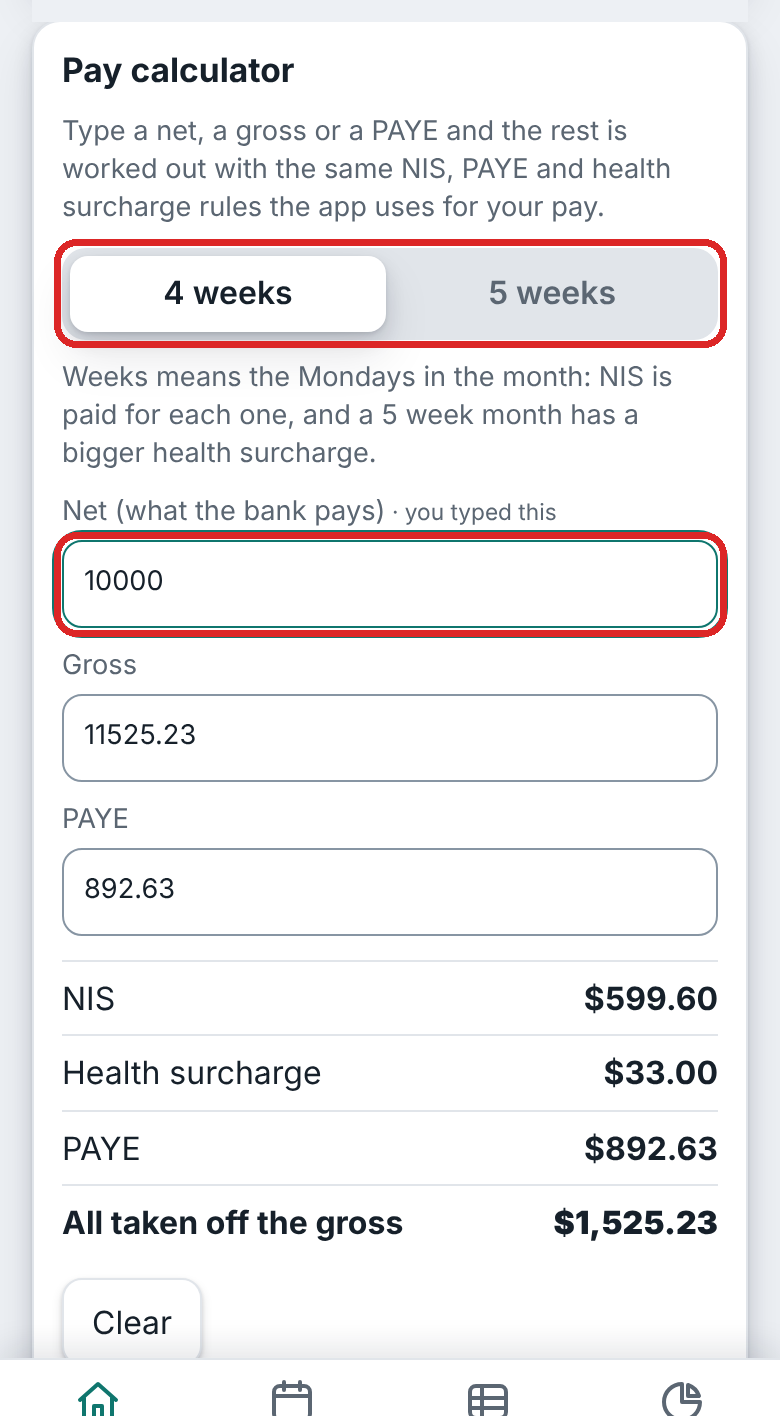
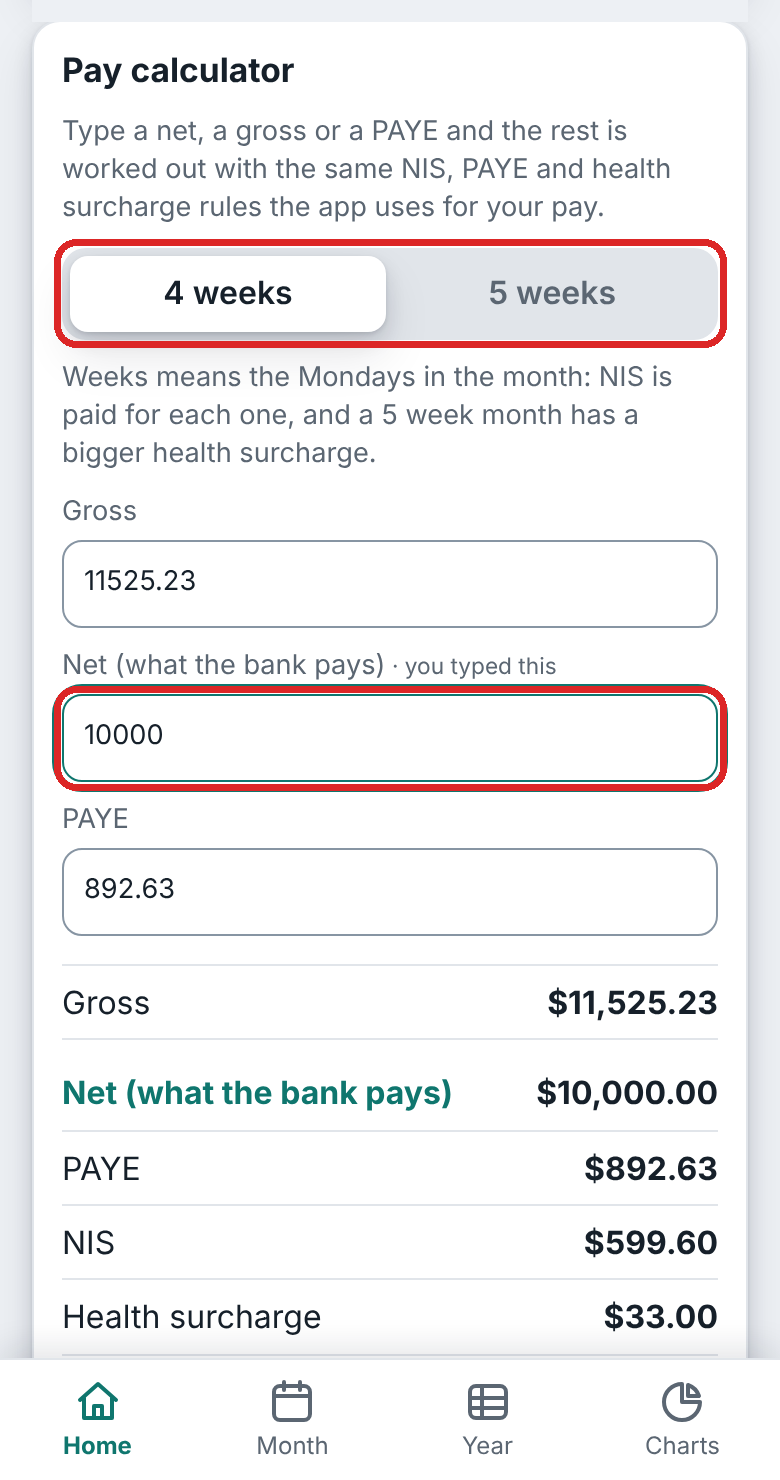
Pay calculator: boxes in the order gross, net, PAYE; a summary that always lists gross, net, PAYE, NIS and health surcharge and changes as you type; tests, guide text and picture
Claude-Session: https://claude.ai/code/session_015B217MJCLoYGM2HCZFLF5v

Changed region(s): [[0.0, 0.0311, 0.9538, 1.0], [0.9538, 0.9011, 1.0, 0.9633]]

diff --git a/tests/calculator.test.tsx b/tests/calculator.test.tsx
@@ -1,0 +1,55 @@
+// @vitest-environment jsdom
+import { afterEach, describe, expect, it } from "vitest";
+import { act, cleanup, fireEvent, render, screen, within } from "@testing-library/react";
+import { PayCalculator } from "../src/components/PayCalculator";
+import { monthTax } from "../src/engine";
+import { demoTax } from "./support";
+
+afterEach(cleanup);
+
+const draw = (five = false) => render(<PayCalculator rules={demoTax} fiveByDefault={five} />);
+const summary = () => within(screen.getByLabelText("Summary")).getAllByRole("listitem").map((li) => li.textContent);
+
+describe("pay calculator", () => {
+  it("shows the boxes as gross, net, PAYE and an empty summary to begin with", () => {
+    draw();
+    const labels = ["Gross", "Net (what the bank pays)", "PAYE"].map((l) => screen.getByLabelText(l));
+    expect(labels.length).toBe(3);
+    expect(summary()[0]).toBe("Gross–");
+    expect(summary().length).toBe(6);
+  });
+
+  it("a net fills in the gross, PAYE and the summary, using the app's own formulas", () => {
+    draw();
+    act(() => { fireEvent.change(screen.getByLabelText("Net (what the bank pays)"), { target: { value: "10000" } }); });
+    const gross = Number((screen.getByLabelText("Gross") as HTMLInputElement).value);
+    const t = monthTax(gross, 4, demoTax);
+    expect(Math.abs(t.net - 10000)).toBeLessThan(0.02);
+    expect(Number((screen.getByLabelText("PAYE") as HTMLInputElement).value)).toBeCloseTo(t.paye, 1);
+    expect(summary()[3]).toContain("NIS");
+    expect(summary()[1]).toContain("$10,000.00");
+  });
+
+  it("the 5 week switch changes the answer", () => {
+    draw();
+    act(() => { fireEvent.change(screen.getByLabelText("Net (what the bank pays)"), { target: { value: "10000" } }); });
+    const four = Number((screen.getByLabelText("Gross") as HTMLInputElement).value);
+    act(() => { fireEvent.click(screen.getByRole("button", { name: "5 weeks" })); });
+    expect(Number((screen.getByLabelText("Gross") as HTMLInputElement).value)).toBeGreaterThan(four);
+  });
+
+  it("a gross fills in the net, and Clear empties it all", () => {
+    draw();
+    act(() => { fireEvent.change(screen.getByLabelText("Gross"), { target: { value: "5000" } }); });
+    expect(Number((screen.getByLabelText("Net (what the bank pays)") as HTMLInputElement).value)).toBeCloseTo(monthTax(5000, 4, demoTax).net, 1);
+    act(() => { fireEvent.click(screen.getByRole("button", { name: "Clear" })); });
+    expect((screen.getByLabelText("Gross") as HTMLInputElement).value).toBe("");
+    expect(summary()[0]).toBe("Gross–");
+  });
+
+  it("says so when no gross gives the figure", () => {
+    draw();
+    act(() => { fireEvent.change(screen.getByLabelText("Net (what the bank pays)"), { target: { value: "-5" } }); });
+    expect(screen.getByRole("alert").textContent).toContain("No gross gives exactly that net");
+  });
+});

diff --git a/src/components/PayCalculator.tsx b/src/components/PayCalculator.tsx
@@ -5,8 +5,8 @@ import { money } from "../format";
 const cents = (n: number) => String(Math.round(n * 100) / 100);
 
 const BOXES: Array<{ key: Known; label: string }> = [
-  { key: "net", label: "Net (what the bank pays)" },
   { key: "gross", label: "Gross" },
+  { key: "net", label: "Net (what the bank pays)" },
   { key: "paye", label: "PAYE" },
 ];
 
@@ -41,14 +41,18 @@ export function PayCalculator({ rules, fiveByDefault }: { rules: TaxRules; fiveB
             onChange={(e) => { setSource(key); setText(e.target.value); }} />
         </label>
       ))}
-      {solved && (
-        <ul className="calc-lines" aria-label="Breakdown">
-          <li><span>NIS</span><strong>{money(solved.tax.nis)}</strong></li>
-          <li><span>Health surcharge</span><strong>{money(solved.tax.surcharge)}</strong></li>
-          <li><span>PAYE</span><strong>{money(solved.tax.paye)}</strong></li>
-          <li className="total"><span>All taken off the gross</span><strong>{money(solved.tax.nis + solved.tax.surcharge + solved.tax.paye)}</strong></li>
-        </ul>
-      )}
+      <ul className="calc-lines" aria-label="Summary">
+        {([
+          ["Gross", solved?.tax.gross, "gross"],
+          ["Net (what the bank pays)", solved?.tax.net, "net"],
+          ["PAYE", solved?.tax.paye, "paye"],
+          ["NIS", solved?.tax.nis, null],
+          ["Health surcharge", solved?.tax.surcharge, null],
+        ] as const).map(([name, v, key]) => (
+          <li key={name} className={key !== null && key === source && typed ? "typed" : ""}><span>{name}</span><strong>{v === undefined ? "–" : money(v)}</strong></li>
+        ))}
+        <li className="total"><span>All taken off the gross</span><strong>{solved ? money(solved.tax.nis + solved.tax.surcharge + solved.tax.paye) : "–"}</strong></li>
+      </ul>
       {solved?.zeroPaye && <p className="notice" role="status">No PAYE is paid up to a gross of {money(solved.tax.gross)} in a {mondays} week month.</p>}
       {solved && solved.others.length > 0 && (
         <p className="notice" role="status">The same {label.toLowerCase()} can also be reached with a gross of {solved.others.map(money).join(" or ")}, because the NIS and surcharge step up at that point. The lowest gross is shown.</p>

diff --git a/src/styles.css b/src/styles.css
@@ -1143,3 +1143,6 @@ html.hide-money .viewer.money-doc canvas { filter: blur(10px); }
 .pay-calc .calc-lines li.total { border-bottom: 0; font-weight: 700; }
 .pay-calc button:not(.on) { margin-top: 10px; }
 .pay-calc .segmented button { margin-top: 0; }
+.pay-calc .calc-lines li.typed span { font-weight: 700; color: var(--accent); }
+.pay-calc .calc-lines li.total { margin-top: 2px; }
+.pay-calc .calc-lines { margin-top: 14px; }

diff --git a/guide/build_guide.py b/guide/build_guide.py
@@ -197,7 +197,7 @@ s.append(Spacer(1, 3))
 s.append(steps([("<b>The payroll pop-up</b> looks like this. <b>OK, send it now</b> opens the download sheet for that month. <b>Nothing to send</b> stops the reminder for the month, and <b>Later</b> hides it until you next open the app.", A("h-pay"), 50)]))
 s.append(Spacer(1, 3))
 s.append(callout("Payroll reminder: send your time sheet in time", ["Payroll closes on the <b>2nd of the next month</b>, and a time sheet that is not sent in time is not paid. So on the <b>last day of every month</b>, and again on the <b>1st and 2nd</b>, a pop-up appears when you open the app: <b>Send (month) to payroll</b>. Tap <b>OK, send it now</b> and the download sheet for that month opens, where you tap <b>Send to payroll</b> and follow the two steps. When you close the Send to payroll box after saving the time sheet or opening your email app, the app asks <b>Did you send the email to payroll?</b> Tap <b>Yes, sent</b> and it stops reminding you about that month. Tap <b>No, not yet</b> and it asks again next time. If none of your jobs need to be submitted, tap <b>Nothing to send</b> (or just ignore the message). <b>Later</b> hides the pop-up until you next open the app, and a box on Home stays until you answer. It also shows again at <b>8 a.m.</b> on the 1st and 2nd if the app is open then. The app cannot wake your phone by itself: it reminds you when you open it. If payroll closed and the month was never confirmed, Home shows a note once."]))
-s.append(steps([("<b>Pay calculator:</b> at the very bottom of <b>Home</b>. Choose <b>4 weeks</b> or <b>5 weeks</b> (the Mondays in the month: NIS is paid for each Monday, and a 5 week month has a bigger health surcharge; it starts on the one this month has). Then type one figure: the <b>Net (what the bank pays)</b>, the <b>Gross</b> or the <b>PAYE</b>. The other two boxes are filled in with the same NIS, PAYE and health surcharge rules the app uses for your pay, and underneath you see the NIS, the health surcharge, the PAYE and the total taken off the gross. For example, type a net of 10000 to see which gross you need to take home that much. The box you typed in is marked <b>you typed this</b>; type in another box to start from that figure instead, or tap <b>Clear</b>. If no gross gives exactly that figure, a note says so. It is only a calculator: nothing is saved, and it follows the rules in <b>Settings, NIS &amp; tax</b>.", A("h-calc"), 50)]))
+s.append(steps([("<b>Pay calculator:</b> at the very bottom of <b>Home</b>. Choose <b>4 weeks</b> or <b>5 weeks</b> (the Mondays in the month: NIS is paid for each Monday, and a 5 week month has a bigger health surcharge; it starts on the one this month has). Then type one figure into <b>Gross</b>, <b>Net (what the bank pays)</b> or <b>PAYE</b>. The other two boxes are filled in with the same NIS, PAYE and health surcharge rules the app uses for your pay. The summary underneath always shows <b>Gross, Net, PAYE, NIS</b> and <b>Health surcharge</b>, and the total taken off the gross, and it changes as you type. For example, type a net of 10000 to see which gross you need to take home that much. The box you typed in is marked <b>you typed this</b>; type in another box to start from that figure instead, or tap <b>Clear</b>. If no gross gives exactly that figure, a note says so. It is only a calculator: nothing is saved, and it follows the rules in <b>Settings, NIS &amp; tax</b>.", A("h-calc"), 50)]))
 s.append(Spacer(1, 3))
 s.append(steps([("<b>The backup line</b> at the bottom of <b>Home</b> shows when you last backed up. Tap <b>Back up</b> to open <b>Backup &amp; restore</b>. If your last backup is over six weeks old, or you have two weeks of days and never backed up, the line turns orange and <b>Back up</b> turns green so you do not miss it.", A("h-backup"), 50)]))
 s.append(Spacer(1, 3))
